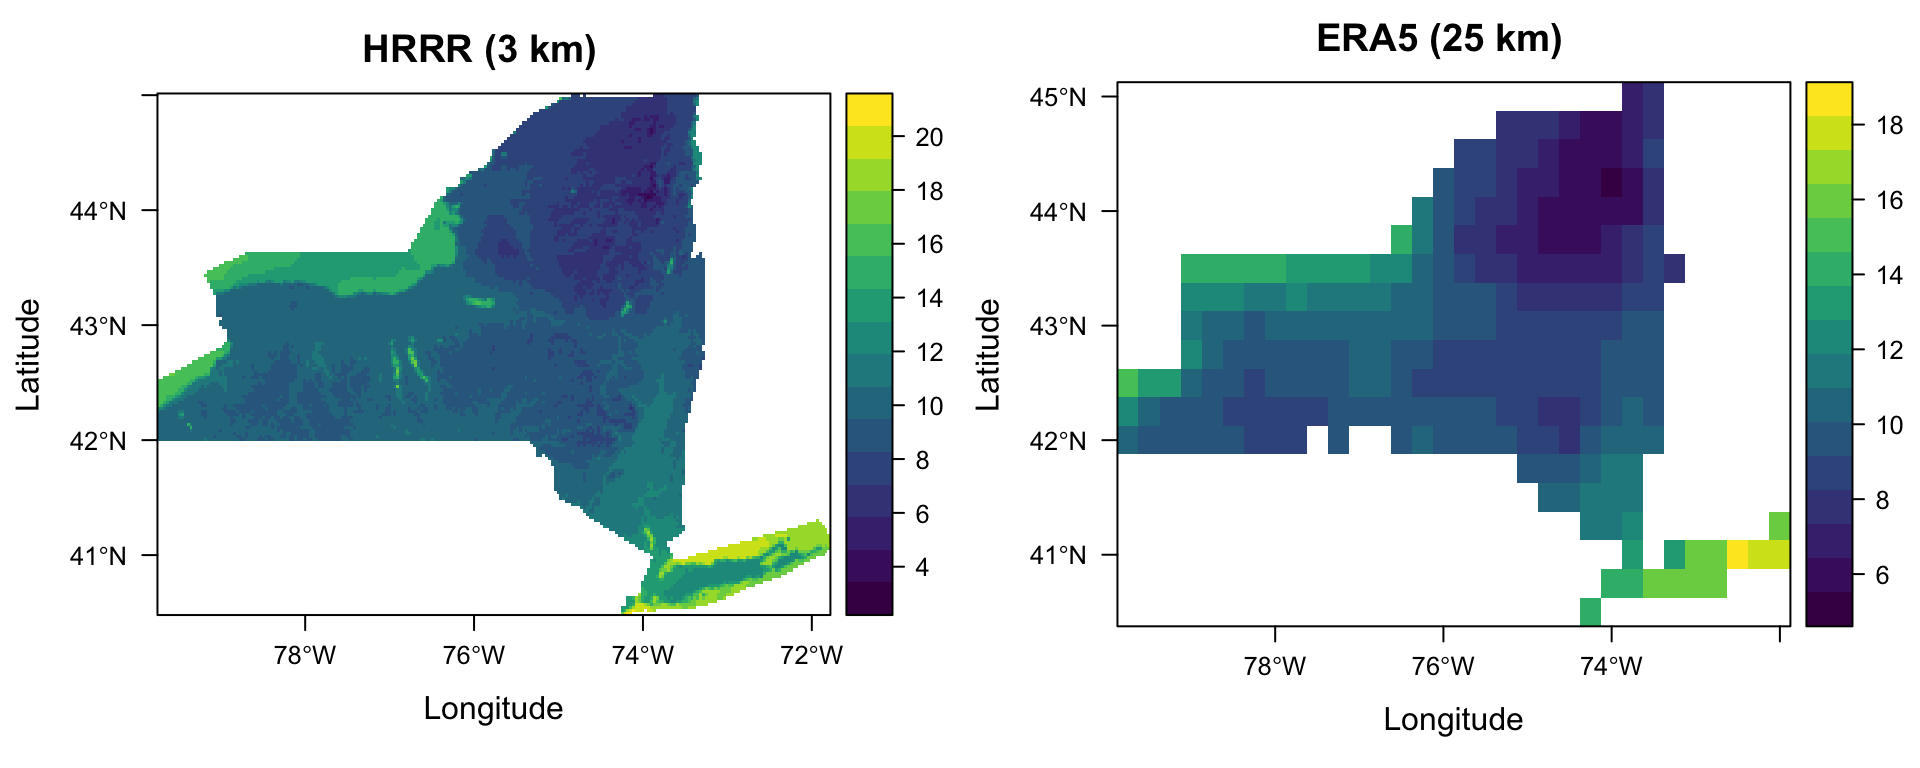
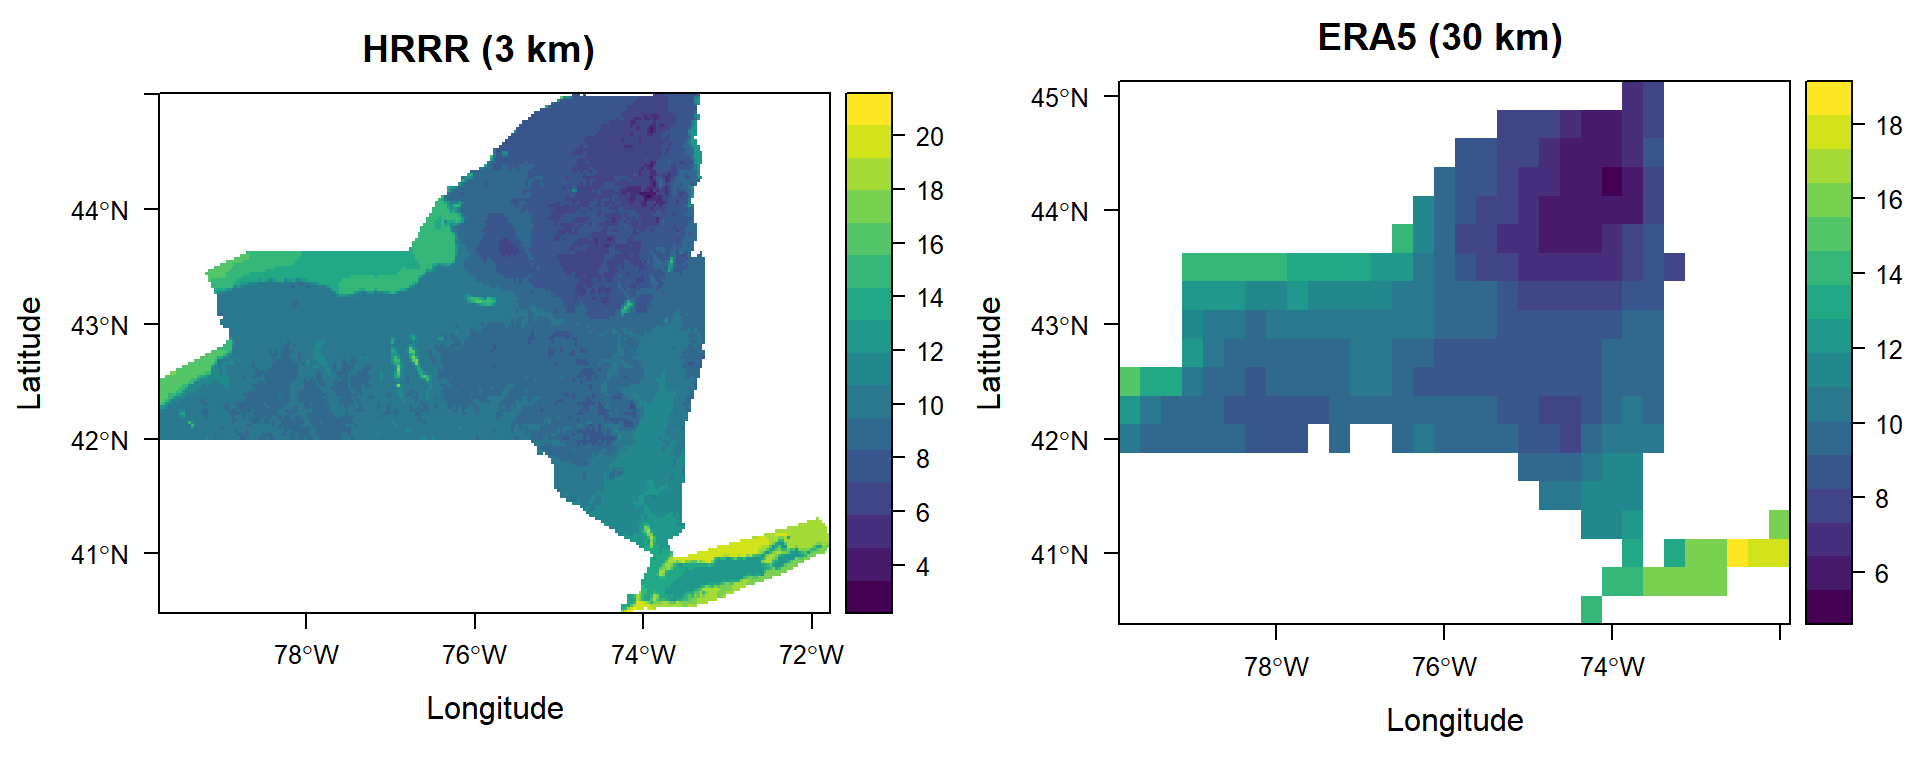
Adding some text. -Nima

diff --git a/docs/index.html b/docs/index.html
@@ -635,15 +635,15 @@ p1&lt;- levelplot(mask(crop(monthly_mean_HRRR[[10]],extent(ny_bound)),ny_bound),
           col.regions=viridis, margin=F, main=list(&#39;HRRR (3 km)&#39;))
 
 p2&lt;- levelplot(mask(crop(monthly_mean_ERA5[[10]],extent(ny_bound)),ny_bound),
-          col.regions=viridis, margin=F, main=list(&#39;ERA5 (25 km)&#39;))
+          col.regions=viridis, margin=F, main=list(&#39;ERA5 (30 km)&#39;))
 
 ggarrange(p1,p2,nrow=1)</code></pre>
 <p><img src="index_files/figure-html/unnamed-chunk-5-1.png" width="960" /></p>
 </div>
 <div id="resample-from-fine-to-coarse-or-coarse-to-fine" class="section level3">
 <h3>Resample from fine to coarse, or coarse to fine?</h3>
-<p>Working with series of datasets with different spatial resolutions, this is an important question which needs to be wisely answered. Resampling from coarse to fine produces additional data which increases the uncertainty in the problem. On the other hand, resampling from fine to coarse removes lots of data which can make difference in the model quality. This question can be answered in different ways based on the application of the data after processing.<br />
-The figure below shows the difference between two models in both resampling scenarios, from fine to coarse (on left: difference between resampled HRRR raster and its corresponding ERA5 raster) and from coarse to fine (on right: difference between resampled ERA5 and its corresponding HRRR raster). Since ERA5 model shows better results in this study, and in the scope of this work, it is important to maintain ERA5 dataset without changes, HRRR model is resampled over the ERA5 grid cells.</p>
+<p>Working with series of datasets with different spatial resolutions, this is an important question which needs to be wisely answered. Resampling from coarse resolution to finer one means generating artificial data which increases the uncertainty and inaccuracy in the problem. On the other hand, resampling from fine resolution to coarser one smoothes out data which can make difference in the model quality. This question can be answered in different ways based on the application of the data after processing.<br />
+The figure below shows the difference between two models in both resampling scenarios, from fine to coarse (on left: difference between resampled HRRR raster and its corresponding ERA5 raster) and from coarse to fine (on right: difference between resampled ERA5 and its corresponding HRRR raster). Since ERA5 model ended up yielding better results in this study, we concluded to maintain ERA5 dataset without changes, and hence, HRRR model is resampled over the ERA5 grid cells.</p>
 <pre class="r"><code># comparing resample methods (from fine to coarse and vise versa)
 HRRR_to_ERA5_resample &lt;- resample(monthly_mean_HRRR[[10]],monthly_mean_ERA5[[10]],method=&quot;bilinear&quot;)
 monthly_mean_Diff_1 &lt;- HRRR_to_ERA5_resample-monthly_mean_ERA5[[10]]
@@ -803,7 +803,7 @@ levelplot(mask(monthly_min_Diff_brick,ny_bound),
 </div>
 <div id="conclusions" class="section level1">
 <h1>Conclusions</h1>
-<p>As the result of this study shows, ERA5 model demonstrates a remarkable ability in generating temperature dataset, as a climatological variable, in comparison to HRRR model. Although HRRR model has much finer spatial resolution which supposes to help in building a more powerful model, the output of ERA5 model is proved to be closer to the reality. This statement is verified by comparing the dataset provided by the models with the dataset measured at the weather stations.</p>
+<p>As the result of this study shows, ERA5 model demonstrates a remarkable ability in generating temperature dataset, as a climatological variable, in comparison to HRRR model. Although HRRR model has much finer spatial resolution which supposes to help in building a more powerful model, the output of ERA5 model is proved to be closer to the reality. This statement is verified by comparing the dataset provided by the models with the dataset measured at the weather stations. There are two points noteworthy here. First, looking into the difference plots, one find that the range in difference in pixels of maximum and minimum rasters are much wider than the range in the average case. Although it complies with our decision in picking the resampling method, it also indicates that maybe comparing models by these measures are not accurate enough, as we may compare their outliers. Therefore, maybe looking into 10th and 90th percentiles of pixel values (for example) be a better criterion. Moreover, reanalysis models take into account the ground observations (e.g. weather stations) as well. So, maybe looking into a ground truth other than weather stations, yields results with less bias.</p>
 </div>
 <div id="references" class="section level1">
 <h1>References</h1>
